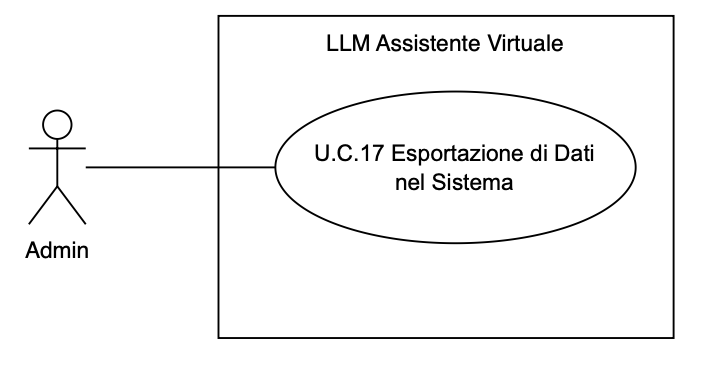
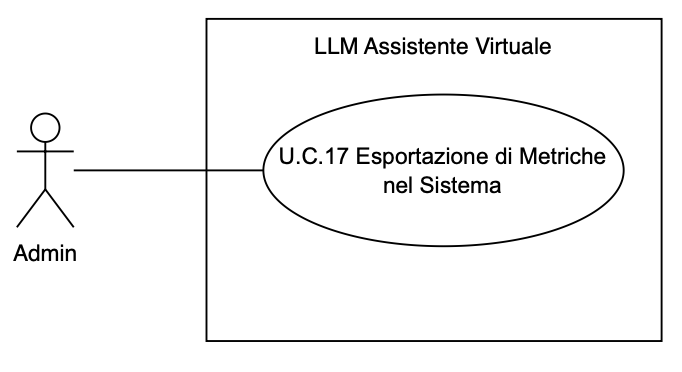
Modificati grafici
UC 6.3 per OWASP
UC 6.4 per OWASP
UC 7.6 per OWASP
UC 17 per titolo cambiato

diff --git a/src/2_RTB/documentazione_esterna/analisi_dei_requisiti/casi_uso.tex b/src/2_RTB/documentazione_esterna/analisi_dei_requisiti/casi_uso.tex
@@ -549,7 +549,7 @@ I casi d'uso sono codificati utilizzando la seguente notazione:
 \end{figure}
 \newpage
 
-\subsubsection{U.C.17 Esportazione di METRICHE nel Sistema} %da rivedere CON METRICHEEEEEEEEEEEEEEEEEEEEEEEEEEEEEEEEEEEEE
+\subsubsection{U.C.17 Esportazione di Metriche nel Sistema} 
 \begin{itemize}
     \item \textbf{Attore}: Admin
     \item \textbf{Precondizioni}: L’amministratore vuole esportare un file dati.
